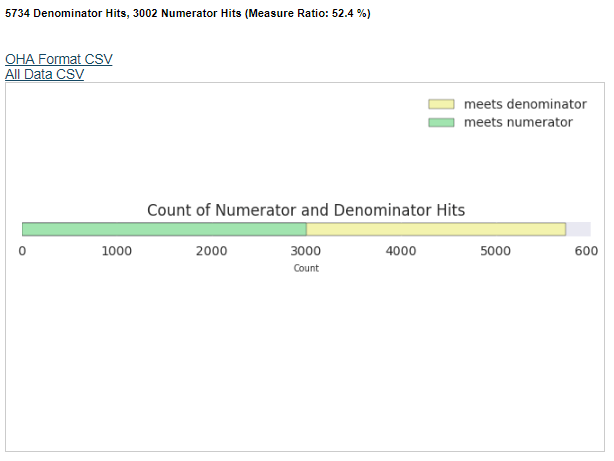
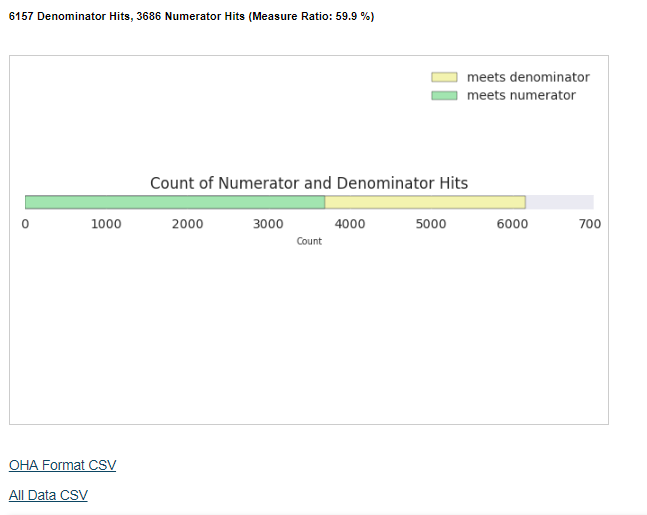
Added 5 2018 CCO Incentive Metrics

diff --git a/README.md b/README.md
@@ -9,7 +9,7 @@
 | Report Name    | Description               |
 | -------------  |-------------              |
 | [Diabetes: HbA1c Poor Control](#diabetes-hba1c-poor-control)        | Percentage of patients 18-75 years of age with diabetes who had hemoglobin A1c > 9.0% during the measurement period.         |
-| [Adolescent Well Care Visits](#adolescent-well-care-visits)      | Percentage of adolescents and young adults (ages 12-21) who had at least one well-care visit during the measurement year.         |
+| [Adolescent well-care visits](#adolescent-well-care-visits)      | Percentage of adolescents and young adults (ages 12-21) who had at least one well-care visit during the measurement year.         |
 | [Alcohol and Drug Misuse (SBIRT)](#alcohol-and-drug-misuse-sbirt))      | Percentage of members (ages 12 and older) who received appropriate "screening, brief intervention, and referral to treatment" (SBIRT) for alcohol or other substance abuse.         |
 | [Cervical Cancer Screening](#cervical-cancer-screening)      |  Percentage of women 21-64 years of age who were screened for cervical cancer using either of the following criteria: * Women age 21-64 who had cervical cytology performed every 3 years * Women age 30-64 who had cervical cytology/human papillomavirus (HPV) co-testing performed every 5 years        |
 | [Childhood Immunization Status](#childhood-immunization-status)  | Percentage of children who received recommended vaccines (DTaP, IPV, MMR, HiB, Hepatitis B, VZV) before their second birthday.      |
@@ -17,7 +17,7 @@
 | [Cigarette Smoking Prevalence (Bundled Measure)](#cigarette-smoking-prevalence)      | Bundled measure is intended to address both cessation benefits offered by CCOs and cigarette smoking prevalence: 1) Meeting minimum cessation benefit requirements 2) Submitting EHR-based cigarette smoking and tobacco prevalence data according to data submission requirements 3) Meeting benchmark or improvement target established by the Metrics & Scoring Committee         |
 | [Colorectal Cancer Screening](#colorectal-cancer-screening)      | Percent of adult members (ages 50-75) who had appropriate screening for colorectal cancer.  |
 | [Controlling High Blood Pressure](#controlling-high-blood-pressure)  | Percentage of patients 18-85 years of age who had a diagnosis of hypertension and whose blood pressure was adequately controlled (<140/90mmHg) during the measurement period.        |
-| [Ambulatory care: Emergency Department utilization](#emergency-department-utilization-beta)      | Rate of patient visits to an emergency department.         |
+| [Ambulatory care: Emergency Department utilization](#ambulatory-care-emergency-department-utilization)      | Rate of patient visits to an emergency department.         |
 | [Disparity Measure: Emergency Department Utilization for Individuals Experiencing Mental Illness ](#emergency-department-utilization-for-individuals-experiencing-mental-illness-beta)  | Rate of visits to an emergency department among adult members experiencing mental illness.        |
 | [Screening for Clinical Depression and Follow-Up Plan](#screening-for-clinical-depression-and-follow-up-plan)      |  Percentage of members (ages 12 and older) who had appropriate screening and follow-up planning for major depression.        |
 | [Developmental Screening in the First Three Years of Life](#developmental-screening-in-the-first-three-years-of-life)      | Percentage of children who were screened for risks of developmental, behavioral and social delays using standardized screening tools in the 12 months preceding their first, second or third birthday.         |
@@ -28,11 +28,11 @@
 ## [B. OHA 2018 CCO Incentive and Performance Reports](#oha-2018-cco-incentive-and-performance-reports)
 | Report Name    | Description               |
 | -------------  |-------------              |
-| [Adolescent well-care visits](#)        | Percentage of adolescents and young adults (ages 12-21) who had at least one well-care visit during the measurement year.         |
-| [Ambulatory Care: Emergency Department utilization](#)        | Rate of patient visits to an emergency department.         |
-| [Childhood immunization status](#)        | Percentage of children who received recommended vaccines (DTaP, IPV, MMR, HiB, Hepatitis B, VZV) before their second birthday.         |
-| [Cigarette smoking prevalence ](#)        | Bundled measure is intended to address both cessation benefits offered by CCOs and cigarette smoking prevalence: 1) Meeting minimum cessation benefit requirements 2) Submitting EHR-based cigarette smoking and tobacco prevalence data according to data submission requirements 3) Meeting benchmark or improvement target established by the Metrics & Scoring Committee.         |
-| [Colorectal cancer screening](#)        | Percent of adult members (ages 50-75) who had appropriate screening for colorectal cancer.         |
+| [Adolescent well-care visits](#adolescent-well-care-visits-1)        | Percentage of adolescents and young adults (ages 12-21) who had at least one well-care visit during the measurement year.         |
+| [Ambulatory Care: Emergency Department utilization](#ambulatory-care-emergency-department-utilization-1)        | Rate of patient visits to an emergency department.         |
+| [Childhood immunization status](#childhood-immunization-status-1)        | Percentage of children who received recommended vaccines (DTaP, IPV, MMR, HiB, Hepatitis B, VZV) before their second birthday.         |
+| [Cigarette smoking prevalence ](#cigarette-smoking-prevalence-1)        | Bundled measure is intended to address both cessation benefits offered by CCOs and cigarette smoking prevalence: 1) Meeting minimum cessation benefit requirements 2) Submitting EHR-based cigarette smoking and tobacco prevalence data according to data submission requirements 3) Meeting benchmark or improvement target established by the Metrics & Scoring Committee.         |
+| [Colorectal cancer screening](#colorectal-cancer-screening-1)        | Percent of adult members (ages 50-75) who had appropriate screening for colorectal cancer.         |
 | [Controlling high blood pressure](#)        | Percentage of adult members (ages 18–85) with a diagnosis of hypertension (high blood pressure) whose condition was adequately controlled.         |
 | [Depression screening and follow up plan](#)        | Percentage of members (ages 12 and older) who had appropriate screening and follow-up planning for major depression.         |
 | [Developmental screening in the first 36 months of life](#)        | Percentage of children who were screened for risks of developmental, behavioral and social delays using standardized screening tools in the 12 months preceding their first, second or third birthday.         |
@@ -47,7 +47,7 @@
 | -------------  |-------------              |
 | [Diabetes: Hemoglobin A1c (HbA1c) Poor Control (>9%)](#diabetes-hemoglobin-a1c-hba1c-poor-control-9)        | Percentage of patients 18-75 years of age with diabetes who had hemoglobin A1c > 9.0% during the measurement period.         |
 | [Breast Cancer Screening](#breast-cancer-screening) | Percentage of women 50-74 years of age who had a mammogram to screen for breast cancer. |
-| [Colorectal Cancer Screening](#colorectal-cancer-screening-1) | Percentage of adults 50-75 years of age who had appropriate screening for colorectal cancer. |
+| [Colorectal Cancer Screening](#colorectal-cancer-screening-2) | Percentage of adults 50-75 years of age who had appropriate screening for colorectal cancer. |
 | [Preventive Care and Screening: Body Mass Index (BMI) Screening and Follow-Up Plan](#preventive-care-and-screening-body-mass-index-bmi-screening-and-follow-up-plan-1) | Percentage of patients aged 18 years and older with a BMI documented during the current encounter or during the previous six months AND with a BMI outside of normal parameters, a follow-up plan is documented during the encounter or during the previous six months of the current encounter.  Normal Parameters: Age 18 years and older BMI => 18.5 and < 25 kg/m2 |
 | [Ischemic Vascular Disease (IVD): Use of Aspirin or Another Antiplatelet](#ischemic-vascular-disease-ivd-use-of-aspirin-or-another-antiplatelet) | Percentage of patients 18 years of age and older who were diagnosed with acute myocardial infarction (AMI), coronary artery bypass graft (CABG) or percutaneous coronary interventions (PCI) in the 12 months prior to the measurement period, or who had an active diagnosis of ischemic vascular disease (IVD) during the measurement period, and who had documentation of use of aspirin or another antiplatelet during the measurement period. |
 | [Preventive Care and Screening: Tobacco Use: Screening and Cessation Intervention](#preventive-care-and-screening-tobacco-use-screening-and-cessation-intervention) | Percentage of patients aged 18 years and older who were screened for tobacco use one or more times within 24 months AND who received cessation counseling intervention if identified as a tobacco user. |
@@ -155,9 +155,6 @@ OHA Format CSV Download and All Data CSV Download (contains all column headings 
 **Column headings**  
 `mpid_CPC | patient_date_of_birth | sex | patient_medicaid_id | sending_facility | date_of_service_denom |sending_facility_num | date_of_service_num | meets_denominator | meets_numerator | provider_name | measurement_period_begin | measurement_period_end`
 
-**Link to Measure Specifications**  
-<http://www.oregon.gov/oha/HPA/ANALYTICS/CCOData/Adolescent-Well-Care-Visits-2017.pdf>
-
 
 ### Alcohol and Drug Misuse (SBIRT)
 **Measure Description**  
@@ -246,9 +243,6 @@ OHA Format CSV Download, All Data CSV Download (contains all column headings bel
         date_of_service_vzv | vzv_num | vzv count | vzv_dx |
         all_vacs |provider_name | measurement_period_begin | measurement_period_end`
 
-**Link to Measure Specifications**  
-<http://www.oregon.gov/oha/HPA/ANALYTICS/CCOData/childhood-immunizations-2017.pdf>
-
 
 ### Chlamydia Screening in Women
 **Measure Description**  
@@ -319,9 +313,6 @@ OHA Format CSV Download, All Data CSV Download (contains all column headings bel
         date_of_service_denom | date_of_service_num1 | date_of_service_num2 | date_of_service_num3 | provider_name | meets_smoke_denominator,
         meets_numerator | meets_numerator_status_1 | meets_numerator_status_2 | measurement_period_begin | measurement_period_end`
 
-**Link to Measure Specifications**  
-<http://www.oregon.gov/oha/HPA/ANALYTICS/CCOData/Cigarette%20Smoking%20Prevalence%20Bundle%20-%202017.pdf>  
-
 
 ### Colorectal Cancer Screening
 **Measure Description**   
@@ -346,8 +337,6 @@ OHA Format CSV Download, All Data CSV Download (contains all column headings bel
 **Column headings**  
 `mpid_CPC | patient_date_of_birth | sex | patient_medicaid_id | sending_facility | date_of_service_denom | date_of_service_num | meets_denominator | meets_numerator | meets_denominator_exclusion | provider_name | measurement_period_begin | measurement_period_end`
 
-**Link to Measure Specifications**  
-<http://www.oregon.gov/oha/HPA/ANALYTICS/CCOData/colorectal-cancer-screening-2017.pdf>  
 
 
 ### Controlling High Blood Pressure
@@ -377,7 +366,7 @@ OHA Format CSV Download, All Data CSV Download (contains all column headings bel
 <http://www.oregon.gov/oha/HPA/ANALYTICS/CCOData/Controlling%20Hypertension%20-%202017%20(revised%20Feb%202017).pdf>  
 
 
-### Emergency Department Utilization  
+### Ambulatory care: Emergency Department utilization  
 **Measure Description**   
 Rate of patient visits to an emergency department.  
 **Denominator**  
@@ -399,9 +388,9 @@ OHA Format CSV Download, All Data CSV Download (contains all column headings bel
 **Column headings**  
 `mpid_CPC | patient_date_of_birth | sex | patient_medicaid_id | sending_facility | date_of_service_denom | date_of_service_num | provider_name | enrollment_months | ED_count | unengaged | measurement_period_begin | measurement_period_end`
 
-**Link to Measure Specifications (note that Reliance report is a hybrid of these two specifications)**  
+**Link to Measure Specifications**  
 <http://ihpsocal.org/wp-content/uploads/2015/12/HEDIS-2017-Volume-2-Technical-Specifications-Final-Update-201610.pdf> 
-<http://www.oregon.gov/oha/HPA/ANALYTICS/CCOData/Ambulatory%20Care%20-%20Outpatient%20and%20Emergency%20Dept%20Utilization%20-%202017%20(revised%20Sep%202017).pdf>  
+
 
 ### Emergency Department Utilization for Individuals Experiencing Mental Illness (BETA)  
 **Measure Description**   
@@ -578,6 +567,162 @@ OHA Format CSV Download, All Data CSV Download (contains all column headings bel
 The Oregon Health Authority (OHA) uses quality health metrics to show how well Coordinated Care Organizations (CCOs) are improving care, making quality care accessible, eliminating health disparities, and curbing the rising cost of health care. These outcome and quality measures are developed by the OHA Metrics and Scoring Committee and can be found here:   
 <http://www.oregon.gov/OHA/HPA/ANALYTICS/Pages/CCO-Baseline-Data.aspx>  
 The default measurement period for the following reports is Calendar Year 2018, but the user can choose a measurement period of their choice.
+
+### Adolescent Well Care Visits
+**Measure Description**  
+Percentage of adolescents and young adults (ages 12-21) who had at least one well-care visit during the measurement year.  
+**Denominator**  
+Members age 12-21 years as of December 31 of the measurement year. See HEDIS® 2017 Technical Specifications for Health Plans (Volume 2) for details.  
+**Required exclusions for denominator:**  
+Patients with more than one gap in continuous enrollment of up to 45 days during the measurement year.  
+**Numerator**  
+At least one comprehensive well-care visit during the measurement year. See HEDIS® 2017 Technical Specifications for Health Plans (Volume 2) for details.  
+**Data Sources**  
+ADTs, CCDs, LABs, and Encounters   
+**Input Parameters**   
+Start Date, End Date, and Records to Display Below  
+**Output**  
+Total denominator hits, total numerator hits, measure ratio (total numerator hits/total denominator hits), stacked bar chart of measure ratio, list of patients that meet denominator and numerator requirements.  
+OHA Format CSV Download and All Data CSV Download (contains all column headings below)  
+
+**Example Output**  
+![](pictures/awc_chart.png)  
+**Column headings**  
+`mpid_CPC | patient_name | patient_date_of_birth | sex | patient_medicaid_id | sending_facility | date_of_service_denom |sending_facility_num | date_of_service_num | meets_denominator | meets_numerator | provider_name | measurement_period_begin | measurement_period_end`
+
+**Link to Measure Specifications**  
+<https://www.oregon.gov/oha/HPA/ANALYTICS/CCOData/Adolescent-Well-Care-Visits-2018.pdf>
+
+### Ambulatory care: Emergency Department utilization  
+**Measure Description**   
+Rate of patient visits to an emergency department.  
+**Denominator**  
+1,000 member month of the adult members enrolled with the organization. The adult members are identified as age 18 or older at the end of the measurement year. OHA uses claims with a 36-month rolling look back period, and the members who had two or more visits are identified for inclusion in the denominator.  
+**Numerator**  
+Number of emergency department visits when the member is enrolled with the organization. Count each visit to an ED that does not result in an inpatient encounter once; count multiple ED visits on the same date of service as one visit. Do not include ED visits that result in an inpatient stay. See HEDIS® 2017 Technical Specifications for Health Plans (Volume2) and [Value Set workbook](http://ihpsocal.org/wp-content/uploads/2015/12/HEDIS-2017-Volume-2-Technical-Specifications-Final-Update-201610.pdf) for details.  
+**Required exclusions for numerator**  
+Mental health and chemical dependency services are excluded.     
+**Data Sources**  
+ADTs, CCDs, LABs, Encounters, Transcriptions, and Claims   
+**Input Parameters**   
+Start Date, End Date, and Records to Display Below  
+**Output**  
+Total denominator hits, total numerator hits, measure ratio (total numerator hits/total denominator hits), stacked bar chart of measure ratio, list of patients that meet denominator and numerator requirements (and also whether they are 'unengnaged', defined by whether they have not had an outpatient visit for more than 24 months).  
+OHA Format CSV Download, All Data CSV Download (contains all column headings below).  
+**Example Output**  
+![](pictures/ed_utilization.png)  
+
+**Column headings**  
+`mpid_CPC | patient_date_of_birth | sex | patient_medicaid_id | sending_facility | date_of_service_denom | date_of_service_num | provider_name | enrollment_months | ED_count | unengaged | measurement_period_begin | measurement_period_end`
+
+**Link to Measure Specifications**  
+<http://ihpsocal.org/wp-content/uploads/2015/12/HEDIS-2017-Volume-2-Technical-Specifications-Final-Update-201610.pdf> 
+<https://www.oregon.gov/oha/HPA/ANALYTICS/CCOData/Ambulatory-Care-Outpatient-ED-2018.pdf>  
+
+### Childhood Immunization Status  
+**Measure Description**
+Percentage of children who received recommended vaccines (DTaP, IPV, MMR, HiB, Hepatitis B, VZV) before their second birthday.  
+**Denominator**  
+Children who turn 2 years of age during the measurement year. See HEDIS® 2017 Technical Specification for Health Plans (Volume 2) for details.  
+**Required exclusions for denominator**  
+Patients with more than one gap in continuous enrollment of up to 45 days during the 12 months prior to child's 2nd birthday.  
+**Numerator**  
+OHA is using HEDIS® 2017 Combination 2 for the state performance measure: The number of children who turned 2 years of age in the measurement year and had all of the following specified vaccinations (minimum threshold in brackets): DTaP (4), IPV (3), MMR (1), HiB (3), HepB (3), VZV (1).  
+**Data Sources**  
+ADTs, CCDs, LABs, Encounters, Transcriptions, and Claims   
+**Input Parameters**   
+Start Date, End Date, and Records to Display Below  
+**Output**  
+Total denominator hits, total numerator hits, measure ratio (total numerator hits/total denominator hits), stacked bar chart of measure ratio for each immunization and overall, list of patients that meet denominator and numerator requirements.  
+OHA Format CSV Download, All Data CSV Download (contains all column headings below) and Immunization DOS CSV (every immunizatons and DOS for each patient)
+
+**Example Output**  
+![](pictures/childimms_chart.png)
+
+**Column headings**  
+`mpid_CPC | patient_date_of_birth | sex | patient_medicaid_id | 
+        sending_facility | date_of_service_denom | meets_denominator | 
+        date_of_service_dtap |dtap_num | dtap count |
+        date_of_service_ipv | ipv_num | ipv count |
+        date_of_service_mmr | mmr_num | mmr count |
+        date_of_service_hib | hib_num | hib count |
+        date_of_service_hepb | hepb_num | hepB count |hepb_dx |
+        date_of_service_vzv | vzv_num | vzv count | vzv_dx |
+        all_vacs |provider_name | measurement_period_begin | measurement_period_end`
+
+**Link to Measure Specifications**  
+<https://www.oregon.gov/oha/HPA/ANALYTICS/CCOData/childhood-immunizations-2018.pdf>
+
+### Cigarette Smoking Prevalence  
+**Measure Description**  
+Bundled measure is intended to address both cessation benefits offered by CCOs and cigarette smoking prevalence.  
+
+**Rate 1**  
+**Denominator**  
+Unique Medicaid members 13 years old or older by the beginning of the measurement year, who had a qualifying visit with the provider during the measurement period.  
+**Numerator**  
+Unique members age 13 years or older who had a qualifying visit with the provider during the measurement period, who have their smoking and/or tobacco use status recorded as structured data. 
+
+**Rate 2**   
+**Denominator**  
+Unique Medicaid members age 13 years or older who had a qualifying visit with the provider during the measurement period and who have their smoking and/or tobacco use status recorded as structured data (Rate 1 numerator).  
+**Numerator**  
+Of patients in the Rate 2 denominator, those who are cigarette smokers. See below for additional information on identifying cigarette smoking in the numerator.  
+
+**Rate 3**  
+**Denominator**  
+Unique Medicaid members age 13 years or older who had a qualifying visit with the provider during the measurement period and who have their smoking and/or tobacco use status recorded as structured data (Rate 1 numerator).  
+**Numerator**  
+Of patients in the Rate 3 denominator, those who are cigarette smokers and/or tobacco users. See below for additional information on identifying tobacco use in the numerator.   
+
+**Required exclusions for numerator**  
+Members with missing smoking or tobacco use status will be excluded from rates 2 and 3. Note that e-cigarettes and marijuana (medical or recreational) should be excluded from both
+the cigarette smoking rate and the broader tobacco use rate.  In addition, the measure is focused on cigarette and tobacco use, not nicotine use.
+
+**Data Sources**  
+ADTs, CCDs, LABs, Encounters, Transcriptions, and Claims   
+**Input Parameters**   
+Start Date, End Date, and Records to Display Below  
+**Output**  
+Total denominator hits, total numerator hits, measure ratio (total numerator hits/total denominator hits), stacked bar chart of measure ratio for each rate, list of patients that meet denominator and numerator requirements.  
+OHA Format CSV Download, All Data CSV Download (contains all column headings below).  
+
+**Example Output**  
+![](pictures/smoking_prevalence_chart.png)  
+
+**Column headings**  
+`mpid_CPC | patient_name | patient_date_of_birth | sex | patient_medicaid_id |sending_facility | 
+        date_of_service_denom | date_of_service_num1 | date_of_service_num2 | date_of_service_num3 | provider_name | meets_smoke_denominator,
+        meets_numerator | meets_numerator_status_1 | meets_numerator_status_2 | measurement_period_begin | measurement_period_end`
+
+**Link to Measure Specifications**  
+<https://www.oregon.gov/oha/HPA/ANALYTICS/CCOData/Cigarette-Smoking-Prevalence-Bundle-2018.pdf>  
+
+### Colorectal Cancer Screening
+**Measure Description**   
+Percent of adult members (ages 51-75) who had appropriate screening for colorectal cancer.  
+**Denominator**  
+Medicaid enrollees age 51-75 years as of December 31st of the measurement year.  
+**Numerator**  
+Unique number of individuals receiving at least one of the approved screenings for colorectal cancer either during the measurement year or years prior to the measurement year.  
+**Required exclusions for denominator**  
+Either of the following any time during the member’s history through December 31 of the measurement year: Colorectal Cancer Value Set or Total Colectomy Value Set.  
+**Data Sources**  
+ADTs, CCDs, LABs, Encounters, Transcriptions, and Claims   
+**Input Parameters**   
+Start Date, End Date, and Records to Display Below  
+**Output**  
+Total denominator hits, total numerator hits, measure ratio (total numerator hits/total denominator hits), stacked bar chart of measure ratio, list of patients that meet denominator and numerator requirements.  
+OHA Format CSV Download, All Data CSV Download (contains all column headings below).  
+
+**Example Output**  
+![](pictures/colorectal_chart_2018.png)  
+
+**Column headings**  
+`mpid_CPC | patient_name | patient_date_of_birth | sex | patient_medicaid_id | sending_facility | date_of_service_denom | date_of_service_num | meets_denominator | meets_numerator | meets_denominator_exclusion | provider_name | measurement_period_begin | measurement_period_end`
+
+**Link to Measure Specifications**  
+<https://www.oregon.gov/oha/HPA/ANALYTICS/CCOData/Colorectal-Cancer-Screening-2018.pdf>  
 
 ## QCDR Reports
 The Centers for Medicare & Medicaid Services (CMS) has accepted Reliance’s application to provide Qualified Clinical Data Registry (QCDR) for the 2018 performance period of the Merit-based Incentive Payment System (MIPS).   As the only authorized QCDR in Oregon, Reliance provides you with additional opportunities to optimize your EHR interface with Reliance and maximize your revenue.  
